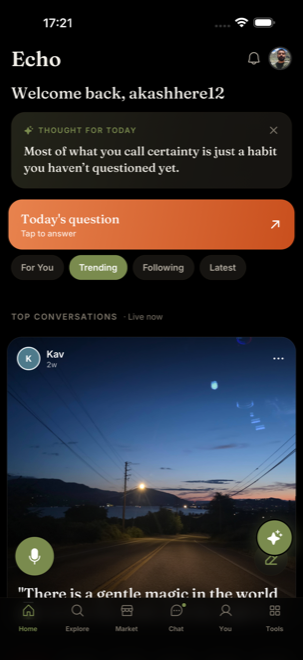
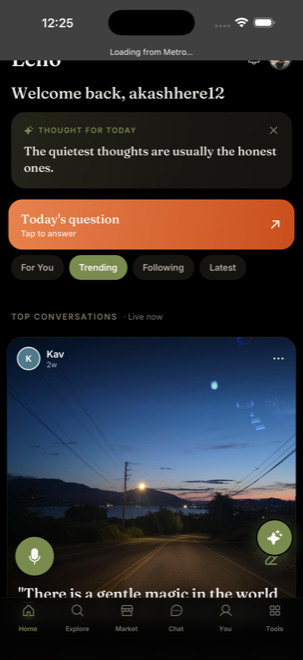
docs(readme): magnetic rewrite + richer screenshots
Reframe the README as marketing-forward: promise-led hero ("Think out loud. In
your voice. In your language."), a benefit-driven "Why Echo?" section, and a
"One app. Every language." strip showing the same screen in English, Hindi, and
Arabic (RTL). Adds real simulator captures of the AI chat, Daily Question, and
mini-apps up top. Trims operational prose (still linked in docs/).

Changed region(s): [[0.0, 0.0, 1.0, 0.0909], [0.0594, 0.2121, 0.9208, 0.2727]]

diff --git a/README.md b/README.md
@@ -1,62 +1,78 @@
 <div align="center">
 
-# Echo
+# 🔊 Echo
 
-### Think out loud — with an AI partner, in your language, by voice.
+### Think out loud. In your voice. In your language.
+
+**Echo is where a passing thought becomes a conversation — and a conversation becomes a community.**
+
+Talk to an AI that thinks _with_ you. Publish what's worth keeping. Answer one question a day alongside the world.
+All by voice. In **25 languages**.
+
+<br/>
 
 [![Expo](https://img.shields.io/badge/Expo-SDK%2054-000020?logo=expo&logoColor=white)](https://expo.dev)
 [![React Native](https://img.shields.io/badge/React%20Native-0.81-61DAFB?logo=react&logoColor=black)](https://reactnative.dev)
 [![TypeScript](https://img.shields.io/badge/TypeScript-strict-3178C6?logo=typescript&logoColor=white)](https://www.typescriptlang.org)
 [![Supabase](https://img.shields.io/badge/Supabase-Postgres%20·%20Edge-3FCF8E?logo=supabase&logoColor=white)](https://supabase.com)
 [![Platform](https://img.shields.io/badge/Platform-iOS%20·%20Android%20·%20Web-4630EB?logo=expo&logoColor=white)](#)
-[![License](https://img.shields.io/badge/License-MIT-green)](LICENSE)
+[![License: MIT](https://img.shields.io/badge/License-MIT-green.svg)](LICENSE)
+
+<br/>
+
+<table>
+<tr>
+<td align="center"><img src="docs/screenshots/chat.png" width="230" alt="AI thinking partner"><br><sub><b>An AI that thinks with you</b></sub></td>
+<td align="center"><img src="docs/screenshots/daily.png" width="230" alt="Daily Question"><br><sub><b>One question a day</b></sub></td>
+<td align="center"><img src="docs/screenshots/tools.png" width="230" alt="Mini-apps"><br><sub><b>A toolkit that grows with you</b></sub></td>
+</tr>
+</table>
 
 </div>
 
-Echo is a **social + AI thinking app**. Chat privately with an AI partner, then publish what's worth keeping as a public **echo**. Answer one shared question a day and unlock how everyone else thinks about it. Go deeper with built-in mini-apps and community surfaces — and drive the whole thing **by voice, in 25 languages**.
+---
+
+## Why Echo?
+
+Most apps want your attention. **Echo wants your thoughts.**
+
+- 🎙 **Just talk.** Open the app and _speak_ — Hindi or English. Post a thought, jump to any screen, search the feed. No typing, no menus. The mic is always one tap away.
+- 🌍 **It speaks your language — all of it.** Every screen, in **25 languages**, right-to-left included. Pick yours and the whole app follows, instantly.
+- 🤖 **An AI partner, not an autocomplete.** Plan the next step, draft a post, or kick off a focus block — then publish the good parts as a public **echo**.
+- 🗣 **One question a day.** Answer first, then unlock how everyone else answered — recent, from people you follow, and the boldest outliers.
+- 🔎 **A feed that learns you.** Vector embeddings rank discovery by what you actually read, not just what's loud.
+- 🧩 **A toolkit that grows with you.** Habits, fitness, money, tasks, pomodoro — mini-apps with an AI coach that reads your real numbers.
+- 🛡 **Safe by design.** Pre-publish moderation, transparent decisions, and a real appeals flow — EU DSA-aligned from day one.
 
 ---
 
-## ✨ Highlights
+## One app. Every language.
 
-- 🎙 **Voice-first control (Hindi + English)** — speak to navigate, post, and search; a Gemini audio→intent pipeline turns a spoken command into an in-app action.
-- 🌍 **25-language UI** — a hand-authored core plus on-demand AI translation for everything else, cached on device. **RTL-ready** (Arabic, Urdu).
-- 🤖 **AI thinking partner** — streamed chat with tool use; turn any conversation into a public echo in a tap.
-- 🗣 **Daily Question ritual** — one shared prompt a day; answer first to reveal the community's takes (recent, from people you follow, and the most divergent).
-- 🔎 **Semantic feed** — vector embeddings rank discovery by what you actually read, not just recency.
-- 🧩 **Mini-apps** — habits, fitness, expenses, tasks, pomodoro, voice memo, world clock — with an AI coach grounded in your real numbers.
-- 🛒 **Community surfaces** — marketplace, salons, office hours, and thinking-partner matching.
-- 🛡 **DSA-aligned moderation** — pre-publish content checks, statements of reasons, and an author appeals flow.
-- 📈 **Retention engine** — streaks, personalized nudges, and push fan-out via scheduled jobs.
-
----
-
-## 📸 Screenshots
+The _same_ screen, the moment you switch — English, Hindi, and a full right-to-left layout in Arabic. No reload, no half-translated corners.
 
 <div align="center">
 <table>
 <tr>
-<td align="center"><img src="docs/screenshots/home-en.png" width="190" alt="Home"><br><sub><b>Home</b> · voice-first</sub></td>
-<td align="center"><img src="docs/screenshots/home-hi.png" width="190" alt="Home in Hindi"><br><sub><b>हिन्दी</b></sub></td>
-<td align="center"><img src="docs/screenshots/explore-hi.png" width="190" alt="Explore in Hindi"><br><sub><b>Explore</b> · हिन्दी</sub></td>
-<td align="center"><img src="docs/screenshots/home-ar.png" width="190" alt="Home in Arabic (RTL)"><br><sub><b>العربية</b> · RTL</sub></td>
+<td align="center"><img src="docs/screenshots/home-en.png" width="220" alt="Home in English"><br><sub><b>English</b></sub></td>
+<td align="center"><img src="docs/screenshots/home-hi.png" width="220" alt="Home in Hindi"><br><sub><b>हिन्दी</b></sub></td>
+<td align="center"><img src="docs/screenshots/home-ar.png" width="220" alt="Home in Arabic (RTL)"><br><sub><b>العربية · RTL</b></sub></td>
 </tr>
 </table>
+<sub>A hand-authored core, on-demand AI translation for the long tail, cached on device.</sub>
 </div>
-
-<sub>Simulator captures from a development account — the same home screen across languages (note the voice mic, bottom-left) and a full right-to-left layout in Arabic.</sub>
 
 ---
 
-## 🏗 Architecture
+## Built to last
+
+One **Expo** codebase → iOS, Android, and Web. A **Supabase** spine — Postgres with row-level security, Realtime, Storage, **14 Edge Functions**, and scheduled jobs. Every model call runs server-side through **Gemini** — zero provider secrets ever ship in the app.
 
 ```mermaid
 flowchart LR
-  subgraph Client["📱 Expo client · iOS / Android / Web"]
+  subgraph Client["📱 Expo · iOS / Android / Web"]
     UI["Expo Router UI"]
     State["TanStack Query · Zustand"]
   end
-
   subgraph Supabase["🗄 Supabase"]
     PG[("Postgres + RLS")]
     RT["Realtime"]
@@ -64,7 +80,6 @@ flowchart LR
     EF["Edge Functions ×14"]
     CRON["pg_cron"]
   end
-
   AI["🤖 OpenRouter · Gemini"]
   Push["🔔 Expo Push"]
 
@@ -78,63 +93,48 @@ flowchart LR
   CRON --> EF --> Push
 ```
 
-- **Client** — a single Expo Router codebase for iOS, Android, and Web; server state in TanStack Query, app state in Zustand, styling via NativeWind, motion via Reanimated.
-- **Supabase** — Postgres with row-level security, Realtime, Storage, `pg_cron`, and **14 Edge Functions** (`echo-ai`, `embed-echo`, `voice-command`, `i18n-translate`, `mini-app-coach`, moderation/embeddings/retention, and more).
-- **AI** — all model access is server-side through OpenRouter (Gemini); no provider keys ever ship in the app bundle.
-- A small **FastAPI** service (`backend/`) remains for optional/secondary local flows.
-
-Deeper notes: [`docs/architecture/overview.md`](docs/architecture/overview.md).
+Voice → intent, moderation, embeddings, translation, and retention all live in Edge Functions (`echo-ai`, `voice-command`, `embed-echo`, `i18n-translate`, `mini-app-coach`, …). Deeper dive → [`docs/architecture/overview.md`](docs/architecture/overview.md).
 
 ---
 
-## 🧱 Tech stack
+## 🧱 Under the hood
 
-`Expo SDK 54` · `React Native 0.81` · `expo-router` · `TypeScript (strict)` · `Zustand` · `TanStack Query` · `NativeWind` · `Reanimated 4` · `Supabase (Postgres · Realtime · Storage · Edge Functions)` · `Gemini via OpenRouter` · `Sentry` · `PostHog`
+`Expo SDK 54` · `React Native 0.81` · `expo-router` · `TypeScript (strict)` · `Zustand` · `TanStack Query` · `NativeWind` · `Reanimated 4` · `Supabase` · `Gemini via OpenRouter` · `Sentry` · `PostHog`
 
 ---
 
-## 🚀 Quick start
+## 🚀 Run it in 60 seconds
 
 ```bash
 npm ci
 cp .env.example .env      # fill your EXPO_PUBLIC_* values
-npm start
+npm start                 # then press i (iOS) · a (Android) · w (Web)
 ```
 
-Run on a target:
-
-```bash
-npm run ios       # iOS simulator
-npm run android   # Android emulator
-npm run web       # browser
-```
-
-Full local setup (Supabase CLI, Edge Functions, the optional backend) → [`docs/setup/local-development.md`](docs/setup/local-development.md).
+Full setup — Supabase CLI, Edge Functions, the optional backend → [`docs/setup/local-development.md`](docs/setup/local-development.md).
 
 ---
 
-## 📚 Documentation
+## 📚 Docs
 
-| Topic | Link |
+| | |
 | --- | --- |
-| Local development & setup | [`docs/setup/local-development.md`](docs/setup/local-development.md) |
-| Architecture overview | [`docs/architecture/overview.md`](docs/architecture/overview.md) |
-| Environment & secrets policy | [`docs/security/environment-and-secrets.md`](docs/security/environment-and-secrets.md) |
-| Deployment (EAS · Supabase · CI) | [`docs/deployment/deployment-guide.md`](docs/deployment/deployment-guide.md) |
-| Testing guide | [`docs/testing/testing-guide.md`](docs/testing/testing-guide.md) |
-| Contributing & ownership | [`CONTRIBUTING.md`](CONTRIBUTING.md) |
-| Pre-launch tracker | [`docs/pre-launch-gaps.md`](docs/pre-launch-gaps.md) |
+| 🛠 Local dev & setup | [`docs/setup/local-development.md`](docs/setup/local-development.md) |
+| 🏗 Architecture | [`docs/architecture/overview.md`](docs/architecture/overview.md) |
+| 🔐 Environment & secrets | [`docs/security/environment-and-secrets.md`](docs/security/environment-and-secrets.md) |
+| 🚢 Deployment (EAS · Supabase · CI) | [`docs/deployment/deployment-guide.md`](docs/deployment/deployment-guide.md) |
+| ✅ Testing | [`docs/testing/testing-guide.md`](docs/testing/testing-guide.md) |
+| 🤝 Contributing & ownership | [`CONTRIBUTING.md`](CONTRIBUTING.md) |
+| 🗺 Pre-launch tracker | [`docs/pre-launch-gaps.md`](docs/pre-launch-gaps.md) |
 
-Before opening a PR: `npm run lint && npm run typecheck && npm test`.
-
----
-
-## 🗺 Status
-
-**v1 — pre-launch.** Core app is feature-complete and on prod Supabase; remaining work is billing, store assets, and dashboard checks — tracked in [`docs/pre-launch-gaps.md`](docs/pre-launch-gaps.md), with submission notes in [`docs/app-store-listing.md`](docs/app-store-listing.md).
+Before a PR: `npm run lint && npm run typecheck && npm test`.
 
 ---
 
-## 📄 License
+<div align="center">
 
-Released under the [MIT License](LICENSE). Maintained by [`Ak2556`](https://github.com/Ak2556).
+**v1 — pre-launch.** Feature-complete on prod Supabase; final billing, store assets, and dashboard checks tracked in [`docs/pre-launch-gaps.md`](docs/pre-launch-gaps.md).
+
+Released under the [MIT License](LICENSE) · built by [`Ak2556`](https://github.com/Ak2556)
+
+</div>
